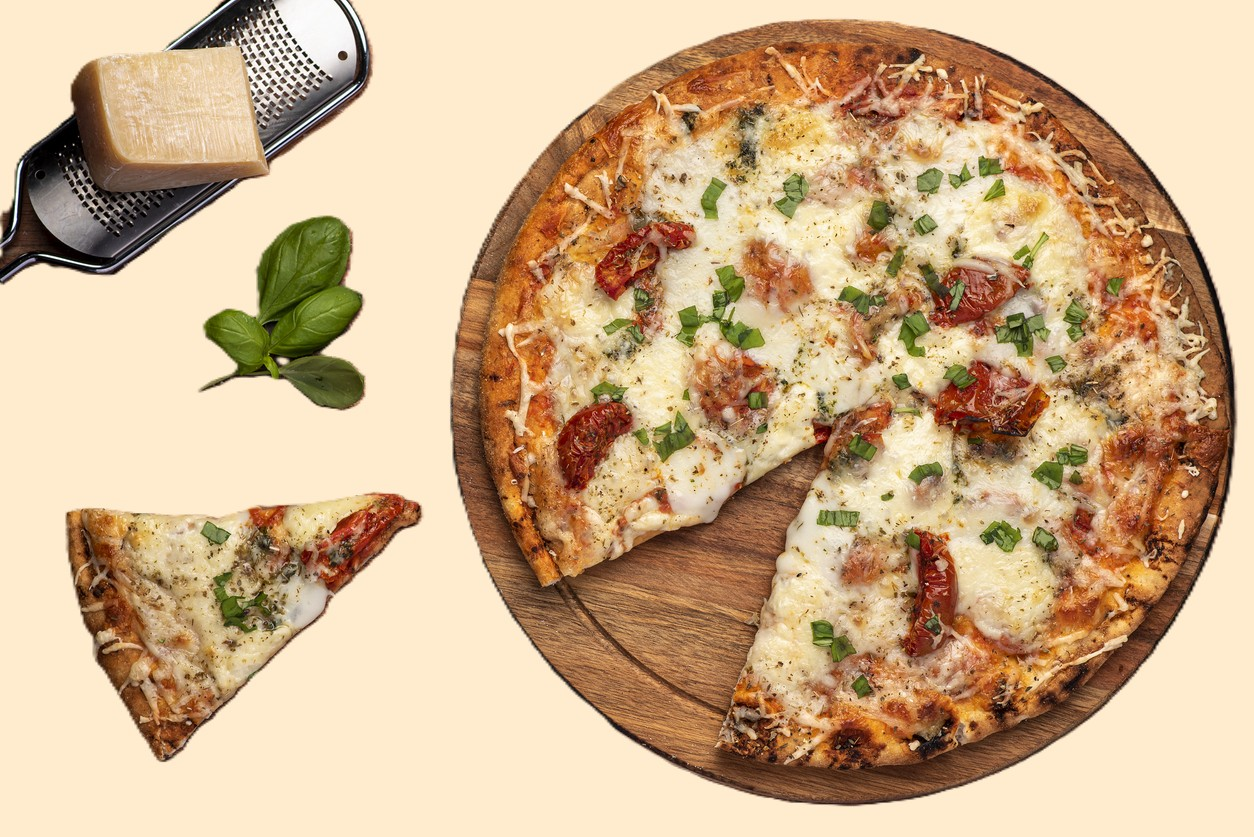
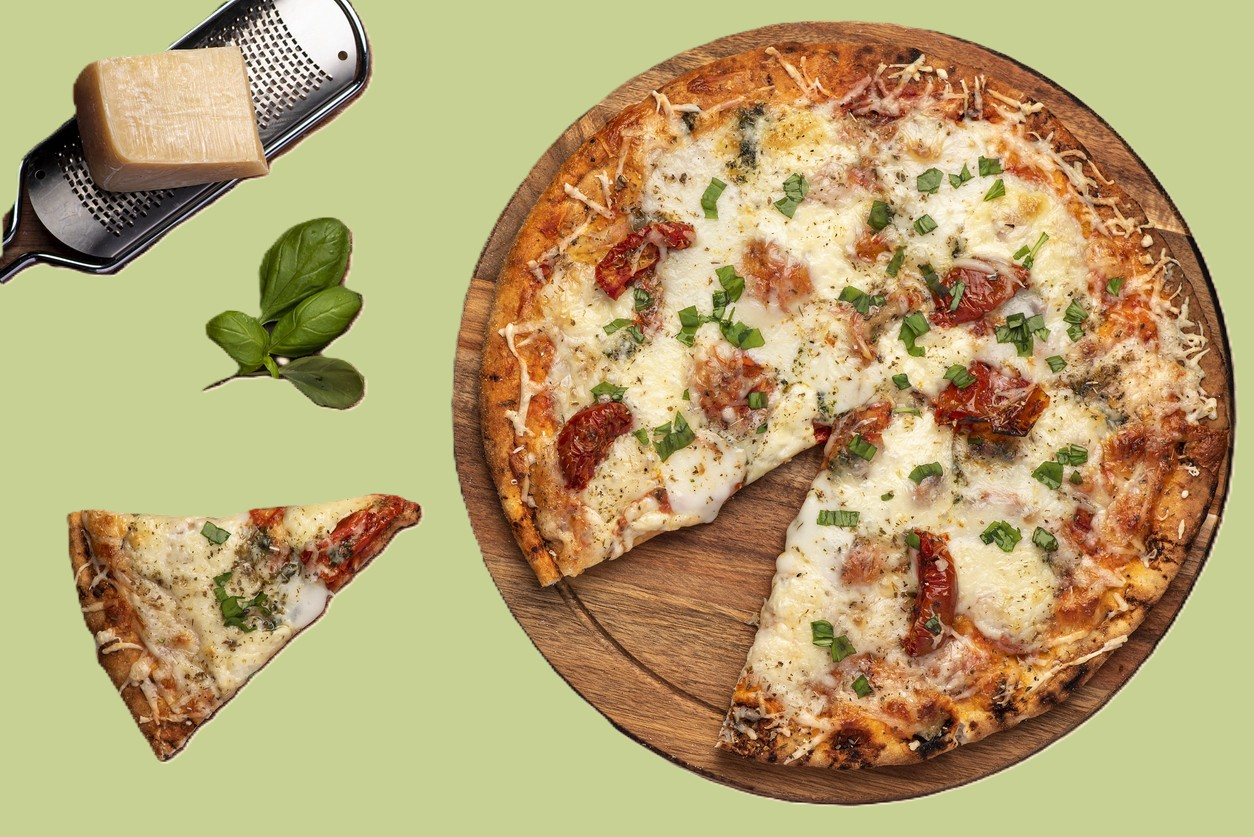
ADICIONADO NO CATALOGO A PAG DE BEBIDAS

diff --git a/testetdn2/TesteTDN.html b/testetdn2/TesteTDN.html
@@ -68,7 +68,8 @@
         </header>
 
             <main id="content">     <!--ID CRIADA QUE REPRESENTA O TAG INTEIRA DO BODY-->
-            <section id="home">        <!--ID DO BOTÃO HOME-->
+            
+                <section id="home">        <!--ID DO BOTÃO HOME-->
                 <div class="shape"></div>    <!--DIV DA FORMA DA TELA DE HOME-->
                 <div id="cta">          <!--CTA SIGNIIFCA A PARTE INICIAL DO SITE A PARTE DO HOME-->
                     <h1 class="title"> TDN PIZZARIA <p>O Sabor que você vai querer provar 
@@ -244,7 +245,7 @@
 
                   <section id="menu2">
                     <h2 class="section-title2">
-                       <details> <summary class="summary2"> <h2 class="section-title2"> Pizzas Doces</h2> </summary> 
+                       <details> <summary class="summary2"> <h2 class="section-title2">  Pizzas Doces</h2> </summary> 
                     <h4 class="section-subtitle2">Confira Nosso Cardapio de Pizzzas Doces Deliciosas</h4>
                     
                     <div id="pizzas_pratosdoces">  <!--DIV QUE AGRUPA AS PIZZAS-->
@@ -334,7 +335,130 @@
                 
                 </details>
                  </section>
+
+
+
+                 <section id="menu3">
+                    <h2 class="section-title3">
+                       <details> <summary class="summary3"> <h2 class="section-title3">  Refrigerantes</h2> </summary> 
+                    <h4 class="section-subtitle3">Confira Nosso Cardapio de Refrigerantes</h4>
+                    
+                    <div id="bebidas">  <!--DIV QUE AGRUPA AS BEBIDAS-->
+                     <div class="guaranas">   <!--DIV DOS GUARANAS-->
+                        
+                        <img src="imagens/coca cola.jpeg"  class=bebidas-foto "Coca Cola">
+                       
+                        <h3 class="bebidas-titulo">
+                            Coca Cola
+                          </h3>
+                        
+                         <p class="bebidas-descrição">Refrigerante Coca Cola</p>
+                            
+                            <div id="bebidas-preço">
+                          <span>8F R$ 24,90</span>      
+                        <span> <p>12F R$ 29,90</span>    </div>
+                        
+                        <button class="btn-default">
+                        <i class="fa-solid fa-basket-shopping"></i></button>
+                         </div> 
+
+                         <div class="guaranas">   <!--DIV DOS PRATOS-->
+                        
+                        <img src="imagens/cocazero.jpg"  class=bebidas-foto "Refrigerante Coca Cola Zero">
+                       
+                        <h3 class="bebidas-titulo">
+                            Refrigerante Coca Cola Zero
+                          </h3>
+                        
+                         <p class="bebidas-descrição"> Refrigerante Coca Cola Zero para não estrapolar no açucar.</p>
+                            
+                            <div id="bebidas-preço">
+                          <span>8F R$ 24,90</span>      
+                        <span> <p>12F R$ 29,90</span>    </div>
+                        
+                        <button class="btn-default">
+                        <i class="fa-solid fa-basket-shopping"></i></button>
+                         </div> 
+
+                         <div class="guaranas">   <!--DIV DOS PRATOS-->
+                        
+                        <img src="imagens/antartica.jpg"  class=bebidas-foto "refrigerante guarana antartica">
+                       
+                        <h3 class="bebidas">
+                           guarana antartica
+                          </h3>
+                        
+                         <p class="bebidas-descrição">Refrigerante guarana antartica.</p>
+                            
+                            <div id="bebidas-preço">
+                          <span>8F R$ 24,90</span>      
+                        <span> <p>12F R$ 29,90</span>    </div>
+                        
+                        <button class="btn-default">
+                        <i class="fa-solid fa-basket-shopping"></i></button>
+                         </div> 
+
+                         <div class="bebidas">   <!--DIV DOS PRATOS-->
+                        
+                        <img src="imagens/pepsi.jpg"  class=bebidas-foto "refrigerante pepsi">
+                       
+                        <h3 class="bebidas-titulo">
+                            pepsi
+                          </h3>
+                        
+                         <p class="bebidas-descrição">refrigerante pepsi.</p>
+                            
+                            <div id="bebidas-preço">
+                          <span>8F R$ 24,90</span>      
+                        <span> <p>12F R$ 29,90</span>    </div>
+                        
+                        <button class="btn-default">
+                        <i class="fa-solid fa-basket-shopping"></i></button>
+                         </div> 
+
+
+                          <div class="bebidas">   <!--DIV DOS PRATOS-->
+                        
+                        <img src="imagens/fanta.jpg"  class=bebidas-foto "refrigerante fanta">
+                       
+                        <h3 class="bebidas-titulo">
+                           Fanta
+                          </h3>
+                        
+                         <p class="bebidas-descrição">refrigerante Fanta.</p>
+                            
+                            <div id="bebidas-preço">
+                          <span>8F R$ 24,90</span>      
+                        <span> <p>12F R$ 29,90</span>    </div>
+                        
+                        <button class="btn-default">
+                        <i class="fa-solid fa-basket-shopping"></i></button>
+                         </div> 
+                          
+                        
+                        
+                       
+                        </details>
+                    </section>
            
+
+
+                    <footer>
+
+                        <button id="redes-sociais-buttons">Redes SOCIAIS--  <!--DIV DOS BOTOES DAS REDES SOCIAIS-->
+                            <a href="">
+                                <i class="fa-brands fa-whatsapp"></i>   <!--BOTÃO DO WHATSAPP-->
+                            </a>
+                            
+                            <a href="">
+                                <i class="fa-brands fa-instagram"></i>   <!--BOTÃO DO INSTAGRAM-->
+                            </a>
+            
+                    </button>
+                    
+                    
+                    
+                        </footer>
            
            
            

diff --git a/testetdn2/estilizar.css b/testetdn2/estilizar.css
@@ -11,7 +11,7 @@
 
 body{
 
-  background-color: rgba(115, 150, 115, 0.692);
+  background-color: rgb(199, 209, 148);  /*cor de fundo da pagina*/
 
 
 }
@@ -209,7 +209,7 @@ gap: 48px; /*ESPACAMENTO*/
   display: flex;
   align-items: start;
   justify-content: end; /*ficar a direita*/
-  width: 40%;
+  width: 52%;
 }
 
 #banner img{
@@ -304,7 +304,7 @@ gap: 48px; /*ESPACAMENTO*/
   .section-subtitle{
 
     
-    font-weight: 700;
+    font-weight: 550;
     color: blanchedalmond;
     font-size: 1.2rem;
     margin-top: 20px;
@@ -394,7 +394,7 @@ gap: 48px; /*ESPACAMENTO*/
     flex-direction: column;
     align-items: flex-start;
     justify-content: center;
-    min-height: 10vh;
+    min-height: 15vh;
 
     }
 
@@ -453,6 +453,7 @@ gap: 48px; /*ESPACAMENTO*/
 
   color: rgb(130,145,47);
   font-size: 2rem;
+  
 
 
   }
@@ -498,6 +499,124 @@ gap: 48px; /*ESPACAMENTO*/
       }
 
 
+      #menu3{
+
+    display: flex;
+    flex-direction: column;
+    align-items: flex-start;
+    justify-content: center;
+    min-height: 15vh;
+
+    }
+
+    .guaranas{
+
+      display : flex;
+      gap: 30px;
+      align-items: center;
+      margin-top: 40px;
+      width: calc(33% - 20px);
+      flex-direction: column;
+    
+      
+      
+     
+    }
+
+    #bebidas{
+
+
+     display: flex;
+      width: 100%;
+     justify-content: center;
+     flex-wrap: wrap;
+      margin-top: 10px;
+    gap: 35px;
+     
+      
+     
+    }
+
+    .bebidas-foto{
+
+    width: 100%;
+    height: 250px;
+    max-width: 250px;
+    justify-content: center;
+    margin-top: 20px;
+    background-color: blanchedalmond
+
+  
+  }
+
+  .section-subtitle3{
+
+    
+    font-weight: 700;
+    color: blanchedalmond;
+    font-size: 1.2rem;
+    margin-top: 20px;
+    text-align: center;
+   
+  }
+
+  .section-title3{
+
+  color: rgb(130,145,47);
+  font-size: 2rem;
+  
+
+
+  }
+  .section-title .summary3{
+
+    cursor: pointer;
+    text-align: center;
+  }
+
+
+    .summary3{
+
+
+      cursor: pointer;
+      list-style: none;
+    }
+    
+
+    .bebidas-descrição{
+
+      margin-top: 15px;
+      text-align: center;
+      font-weight: 600;
+      font-size: 1.0rem; 
+      align-items: center;
+    
+    }
+
+      .bebidas-titulo{
+
+        font-size: 1.8rem;
+        text-align: center;
+
+      }
+
+      #bebidas-preço{
+
+        margin-top: 10px;
+        font-weight: 700;
+        font-size: 1.2rem;
+        text-align: center; 
+        gap: 10px;
+      }
+
+
+footer{
+
+    width: 100%; /*largura*/
+    padding: 28px 8%; /*pra fica responsivo*/
+    background-color: blanchedalmond;
+
+}
 
 
 }
